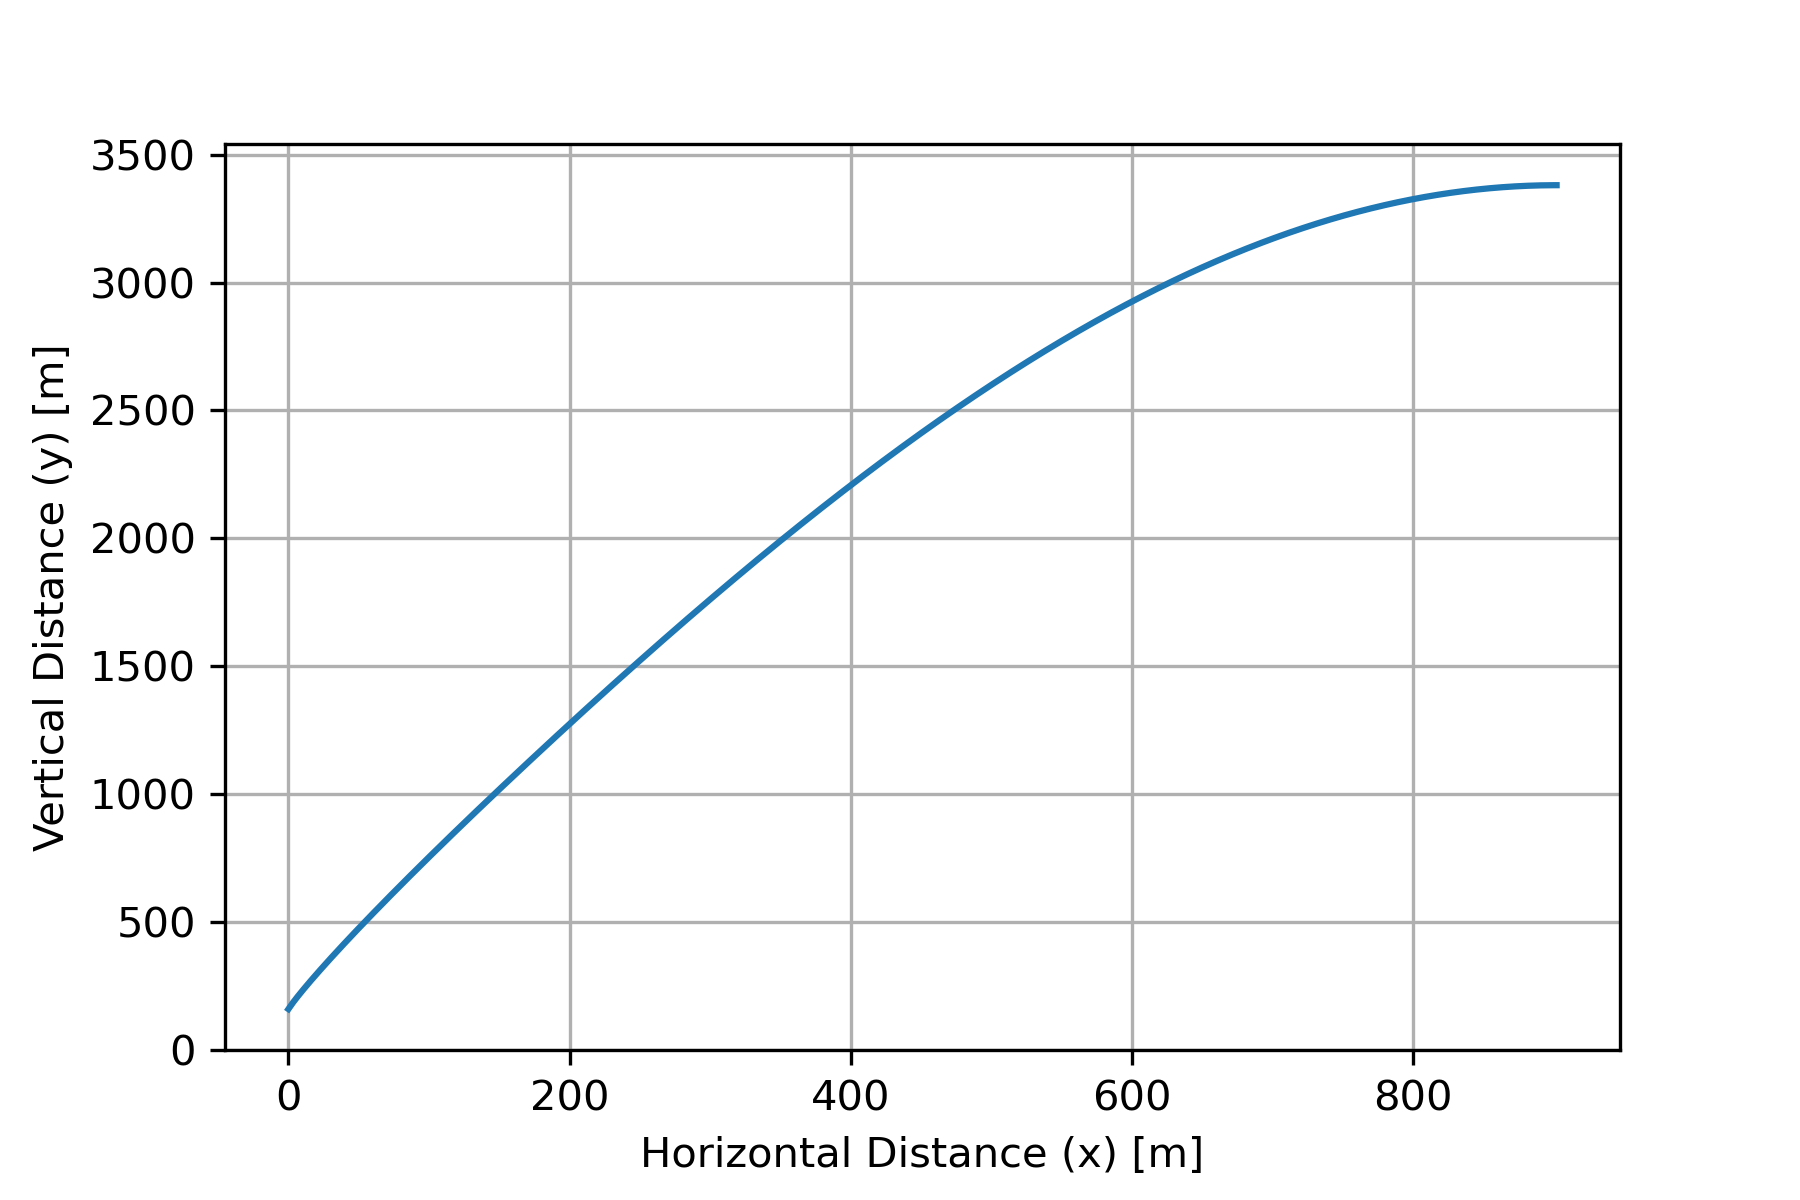
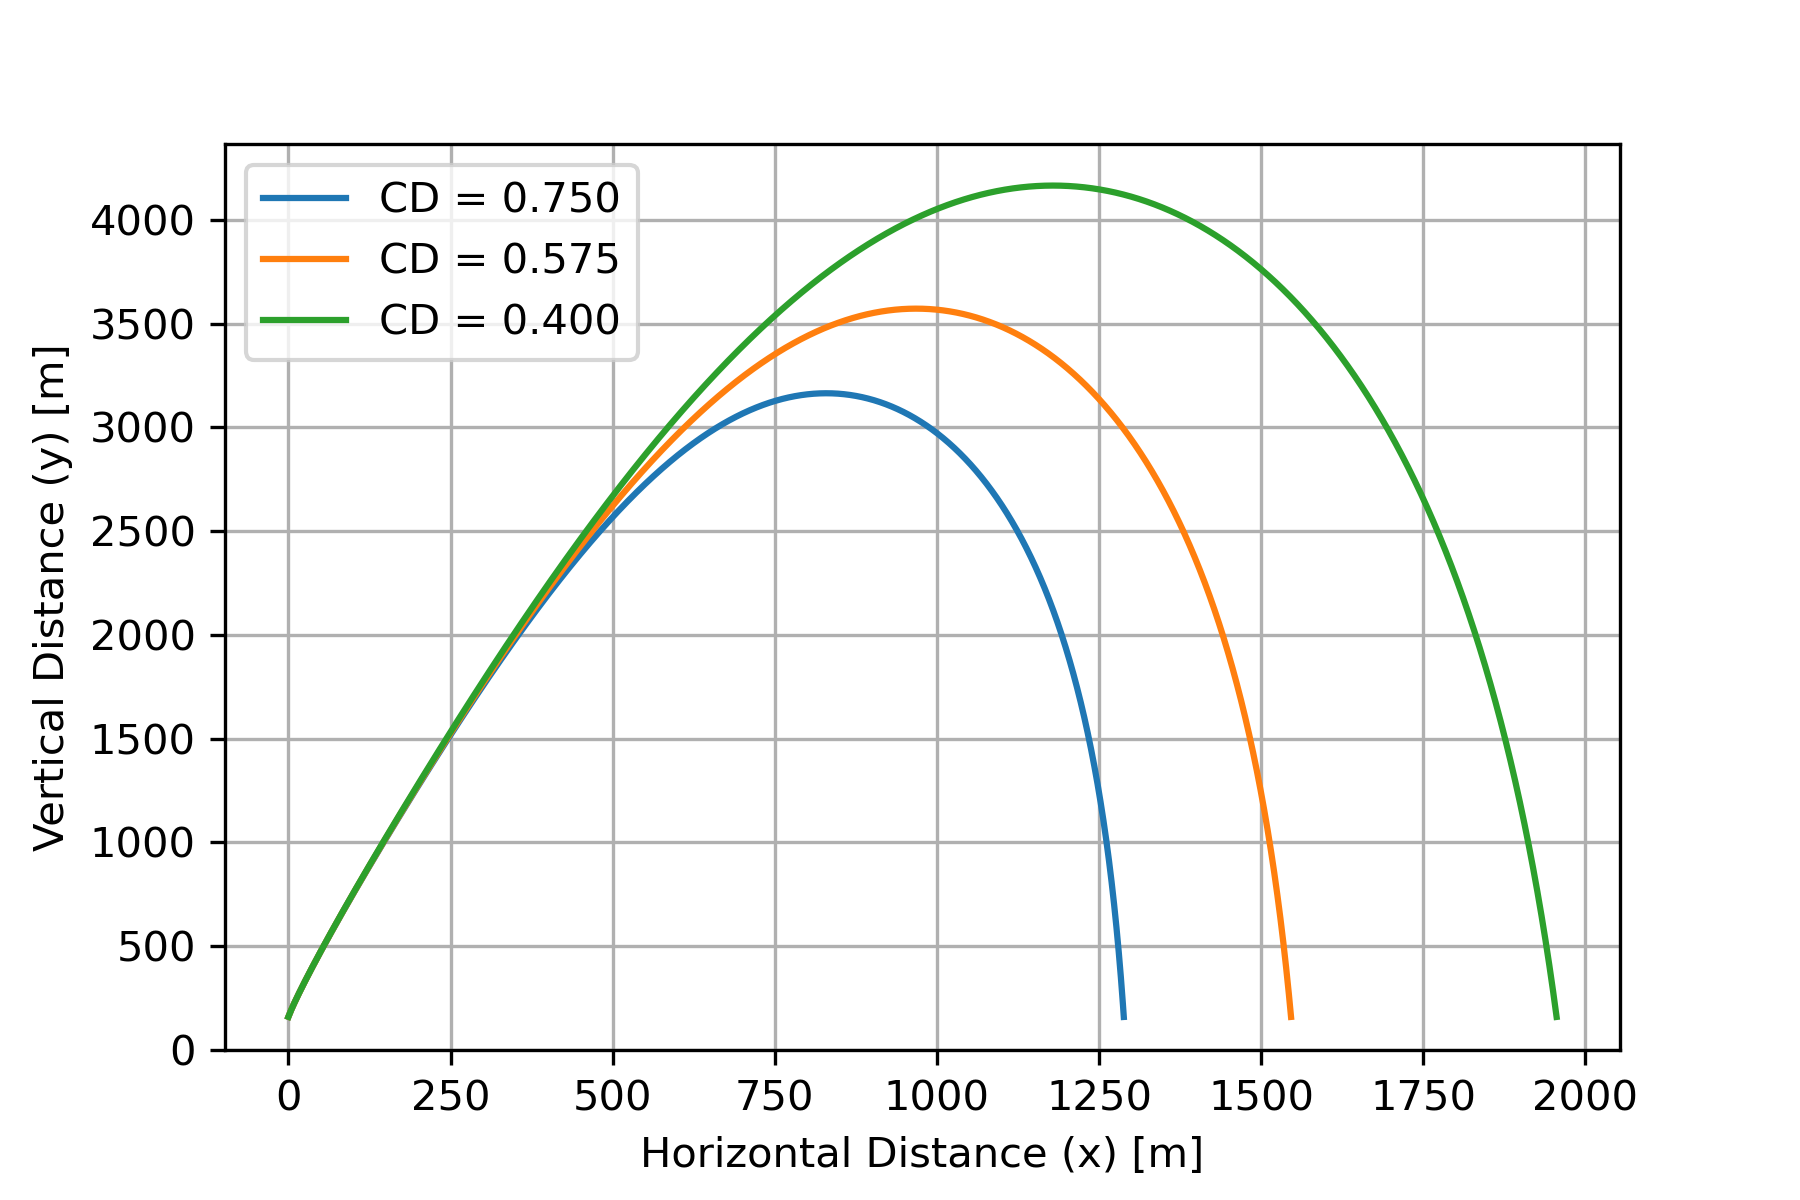
Modified sim script to compare different CD values on launch performance

diff --git a/Trajectory/LaunchSim_CD_effect.py b/Trajectory/LaunchSim_CD_effect.py
@@ -1,0 +1,203 @@
+# -*- coding: utf-8 -*-
+"""
+Created on Wed Jul 12 12:11:53 2023
+
+@author: Bobke
+"""
+import numpy as np
+import matplotlib.pyplot as plt
+
+def gravity(m, h):
+    G = 6.674*10**(-11)
+    M = 5.9722*10**(24)
+    R0 = 6375140
+    Fg = -G*m*M/((R0+h)**2)
+    return(Fg)
+
+def drag(rho, v, s, Cd):
+    Fd = -.5*rho*v**2*s*Cd
+    return Fd
+
+def density(h):
+    p0 = 101325     #Pa
+    T0 = 288.15     #K
+    g0 = 9.80665    #m/s/s
+    L = 0.0065      #temperature lapse rate K/m
+    R = 8.31446     #Universal Gas Constant
+    M = 0.0289652   #kg/mol (molar mass of dry air)
+    
+    hs = 125        #Start height above sea level, m
+    rho = ((p0*M)/(R*T0))*(1-L*(h+hs)/T0)**(((g0*M)/(R*L))-1)
+    return rho
+    
+    
+
+def terminate(h2, h1, h0, dt):
+    run = True
+    """
+    hdot = (h2 - h1)/dt
+    if hdot <= 0:
+        run = False
+    """
+    if h1 < h0:
+        run = False 
+    
+    return run
+
+def solver(tb, mdot, ms, Ft, s, Cd, theta0, dt):
+    """Solving 2D launch, assuming rocket will always point prograde (passively stable)"""
+    """Launch Parameters"""
+    h0 = 160      #m
+    v0 = 0      #m/s
+    t  = 0      #s
+    
+    mf = mdot*tb #initial fuel mass
+    m0 = mf+ms
+    F0 = gravity(m0, h0) + drag(1.225, v0, s, Cd)
+    a0 = F0 / m0
+    print(gravity(m0, h0)/m0)
+    
+    #Arrays
+    m = [m0]
+    h = [h0]
+    d = [0]
+    theta = [theta0]
+    vx, vy, v = [v0],[v0], [v0]
+    ax, ay = [a0],[a0]
+    Fx, Fy = [np.cos(theta0)*F0],[np.sin(theta0)*F0]
+    rho = [density(h[0])]
+    time = [t]
+    
+    
+    
+    run = True
+    count = 0
+    rail = True
+    while run:
+        
+        "Solving Forces"
+        Fxsum = np.cos(theta[count])*drag(rho[count], v[count], s, Cd)
+        Fysum = gravity(m[count], h[count]) + np.sin(theta[count])*drag(rho[count], v[count], s, Cd)
+        
+        if m[count] > ms:
+            #print("cos:", np.cos(theta[count]))
+            #print("sin:", np.sin(theta[count]))
+            Fxsum += np.cos(theta[count])*Ft
+            Fysum += np.sin(theta[count])*Ft
+            m1 = m[count] - mdot*dt
+            
+            
+        else:
+            m1 = m[count]
+            
+        #print("Fx:", Fxsum, " Fy:", Fysum)    
+        m.append(m1)
+        Fx.append(Fxsum)
+        Fy.append(Fysum)
+        
+        "Solving Accelerations"
+        axi = Fxsum/m[count]
+        ax.append(axi)
+        ayi = Fysum/m[count]
+        ay.append(ayi)
+        
+        "Solving Velocities"
+        vxi = vx[count] + (ax[count+1]+ax[count])*dt*0.5
+        vx.append(vxi)
+        vyi = vy[count] + (ay[count+1]+ay[count])*dt*0.5
+        vy.append(vyi)
+        
+        vi = (vx[count+1]**2 + vy[count+1]**2)**0.5
+        v.append(vi)
+        
+        "Solving Distances"
+        hi = h[count] + (vy[count+1]+vy[count])*dt*0.5
+        h.append(hi)
+        
+        di = d[count] + (vx[count+1]+vx[count])*dt*0.5
+        d.append(di)
+        
+        
+        #print("Vx:", vx[count+1], "Vy: ", vy[count+1])
+        if h[count+1]-h0 < np.sin(theta0)*11.9:
+            thetai = theta0
+        else: 
+            thetai = np.arctan(abs(vy[count+1]/vx[count+1]))
+        
+        theta.append(thetai)
+        #print("Angle:", np.degrees(thetai))
+        
+        rho1 = density(h[count])
+        rho.append(rho1)
+        
+        t = t + dt
+        time.append(t)
+        #print("Time: ",t," Force: ",Fsum, " Mass: ", m1)
+        if h[count+1]-h0 > np.sin(theta0)*11.9 and rail:
+            """Saves rail exit velocity"""    
+            vrail = v[count]
+            rail = False
+            print("v: ", v[count], "h: ", h[count])
+        
+        #print("Time: ",t," Force: ",Fsum," Acc: ", a1," v: ", v1, " h: ", h1, " Mass: ", m1 )
+        run = terminate(h[count+1], h[count], h0, dt)
+        
+        count = count + 1
+    #print("Time: ",t," Force: ",(Fxsum**2 + Fysum**2)**0.5," vy: ", vy, " h: ", hi, " Mass: ", m1 ) 
+    print("Fx: ", Fxsum, "Vx: ", vxi, "Hmax: ", hi)
+    return m, h, d, vx, vy, v, ax, ay, Fx, Fy, rho,theta, time
+        
+"""Rocket Parameters"""
+thrust = 1493   #N
+mdot = 0.797    #kg/s
+ms = 20         #kg
+s = np.pi*(.075**2)
+Cd1 = 0.75
+Cd2 = 0.575
+Cd3 = 0.4
+
+burn_time = 6.5  #s 
+lanch_angle_deg = 84 #degrees from horizontal
+dt = 0.001 #time step, s
+
+lanch_angle_rad = np.radians(lanch_angle_deg)
+#print(lanch_angle_rad)
+#tb, mdot, ms, Ft, s, Cd, dt
+m, h1, d1, vx, vy, v1, ax, ay, Fx, Fy, rho, theta, t1= solver(burn_time, mdot, ms, thrust, s, Cd1, lanch_angle_rad, dt)
+m, h2, d2, vx, vy, v2, ax, ay, Fx, Fy, rho, theta, t2= solver(burn_time, mdot, ms, thrust, s, Cd2, lanch_angle_rad, dt)
+m, h3, d3, vx, vy, v3, ax, ay, Fx, Fy, rho, theta, t3= solver(burn_time, mdot, ms, thrust, s, Cd3, lanch_angle_rad, dt)
+
+plt.figure(1)
+plt.clf()
+
+plt.plot(t1, v1, label = "vmag CD = 0.750")
+plt.plot(t2, v2, label = "vmag CD = 0.575")
+plt.plot(t3, v3, label = "vmag CD = 0.400")
+
+plt.grid(1)
+plt.xlabel("time [s]")
+plt.ylabel("Velocity [m/s]")
+plt.legend()
+plt.savefig('Velocity_vs_time.png', dpi=300)
+
+
+plt.figure(6)
+plt.clf()
+plt.plot(d1, h1, label = "CD = 0.750")
+plt.plot(d2, h2, label = "CD = 0.575")
+plt.plot(d3, h3, label = "CD = 0.400")
+plt.grid(1)
+plt.xlabel("Horizontal Distance (x) [m]")
+plt.ylabel("Vertical Distance (y) [m]")
+plt.ylim(ymin=0) 
+plt.legend()
+plt.savefig('Height_vs_Distance.png', dpi=300)
+
+
+
+
+
+
+    
+    
+    

diff --git a/Engine/Data_Analysis/h5_ablation_analysis.py b/Engine/Data_Analysis/h5_ablation_analysis.py
@@ -1,0 +1,117 @@
+# -*- coding: utf-8 -*-
+"""
+Created on Fri Oct 20 17:38:13 2023
+
+@author: Bobke
+"""
+
+"""
+LC190 (thrust), M730 (IPA mdot), M850 (N2O mdot), 
+PT852/TC852 (N2O delivery pressure/temperature), 
+and PT732/TC732 (IPA delivery pressure/temperature). 
+The nitrous valve is XT852, 
+the IPA valve is V731 if you want to see the timings.
+"""
+import matplotlib.pyplot as plt
+import matplotlib.ticker as ticker 
+import os
+import math
+import h5_data_lib 
+import numpy as np
+from scipy.signal import butter,filtfilt
+
+try: 
+    print('The home directory has been saved as: ', home_directory)
+except:
+    home_directory = os.path.normpath(os.getcwd() + os.sep + os.pardir)    
+    print('Saving the home directory as: ', home_directory)
+
+#groups
+IPA_path = "groups/ipa/"
+N2O_path = "groups/n2o/"
+N2_path = "groups/n2/"
+chamber_path = "chamber/"
+general_path = "channels/"
+
+
+#File Paths
+mdot_IPA_path = IPA_path+"M730"
+mdot_N2O_path = N2O_path+"M850"
+
+p_inlet_IPA_path = IPA_path+"PT732"
+p_inlet_N2O_path = N2O_path+"PT852"
+p_inlet_N2_path = N2_path+"PT520"
+
+p_tank_IPA_path = IPA_path+"PT732"
+p_tank_N2O_path = N2O_path+"PT851"
+p_tank_N2_path = N2_path+"PT521"
+
+t_inlet_IPA_path = IPA_path+"TC732"
+t_inlet_N2O_path = N2O_path+"TC852"
+
+t_tank_N2O_path = N2O_path+"TC851" 
+
+valve_IPA_path = IPA_path+"V731"
+valve_N2O_path = N2O_path+"XT852"
+valve_N2_path = N2_path + " XT852"
+
+thrust_path = general_path+"LC190"
+
+
+#Data Paths
+burn_10s_directory = home_directory+"\Data\Hot_Fire_10s"
+burn_3s_directory = home_directory+"\Data\Hot_Fire_3s"
+
+
+#10-s burn time data
+burn_start, i_start = 0.60, 106001 #seconds, then indicie of time
+burn_end, i_end = 12.40, 224001
+
+#roughly the times for the linear thrust data:
+burn_eq_start, i_start_eq = 1.20, 125001#117001
+burn_eq_end, i_end_eq = 10.0, 200001 #200001
+
+
+#Example data fetch
+IPA_mdot_data = h5_data_lib.run(mdot_IPA_path, burn_10s_directory)
+
+IPA_mdot_data_eq = [0,0]
+IPA_mdot_data_eq[0] = IPA_mdot_data[0][i_start_eq:i_end_eq]
+IPA_mdot_data_eq[1] = IPA_mdot_data[1][i_start_eq:i_end_eq]
+
+
+plt.figure(1)
+plt.title("IPA mass flowrate")
+plt.plot(IPA_mdot_data_eq[1],IPA_mdot_data_eq[0], label = "data")
+
+#mdot_dot = np.polynomial.polynomial.polyfit(IPA_mdot_data_eq[1], IPA_mdot_data_eq[0], 1)
+#print(mdot_dot)
+
+grad = 0.009
+m0 = 0.764
+i = 2
+y_list =  []
+i_list = []
+while i < 10:
+    y_list.append(m0+grad*i)
+    i_list.append(i)
+    i+= 0.1
+    
+plt.plot(i_list,y_list, label ="Modeled Throat ablation")
+plt.legend()
+plt.xlabel("time / s")
+plt.ylabel("Mass Flowrate / kg/s")
+plt.grid()
+
+    
+        
+
+
+
+
+
+
+
+
+
+
